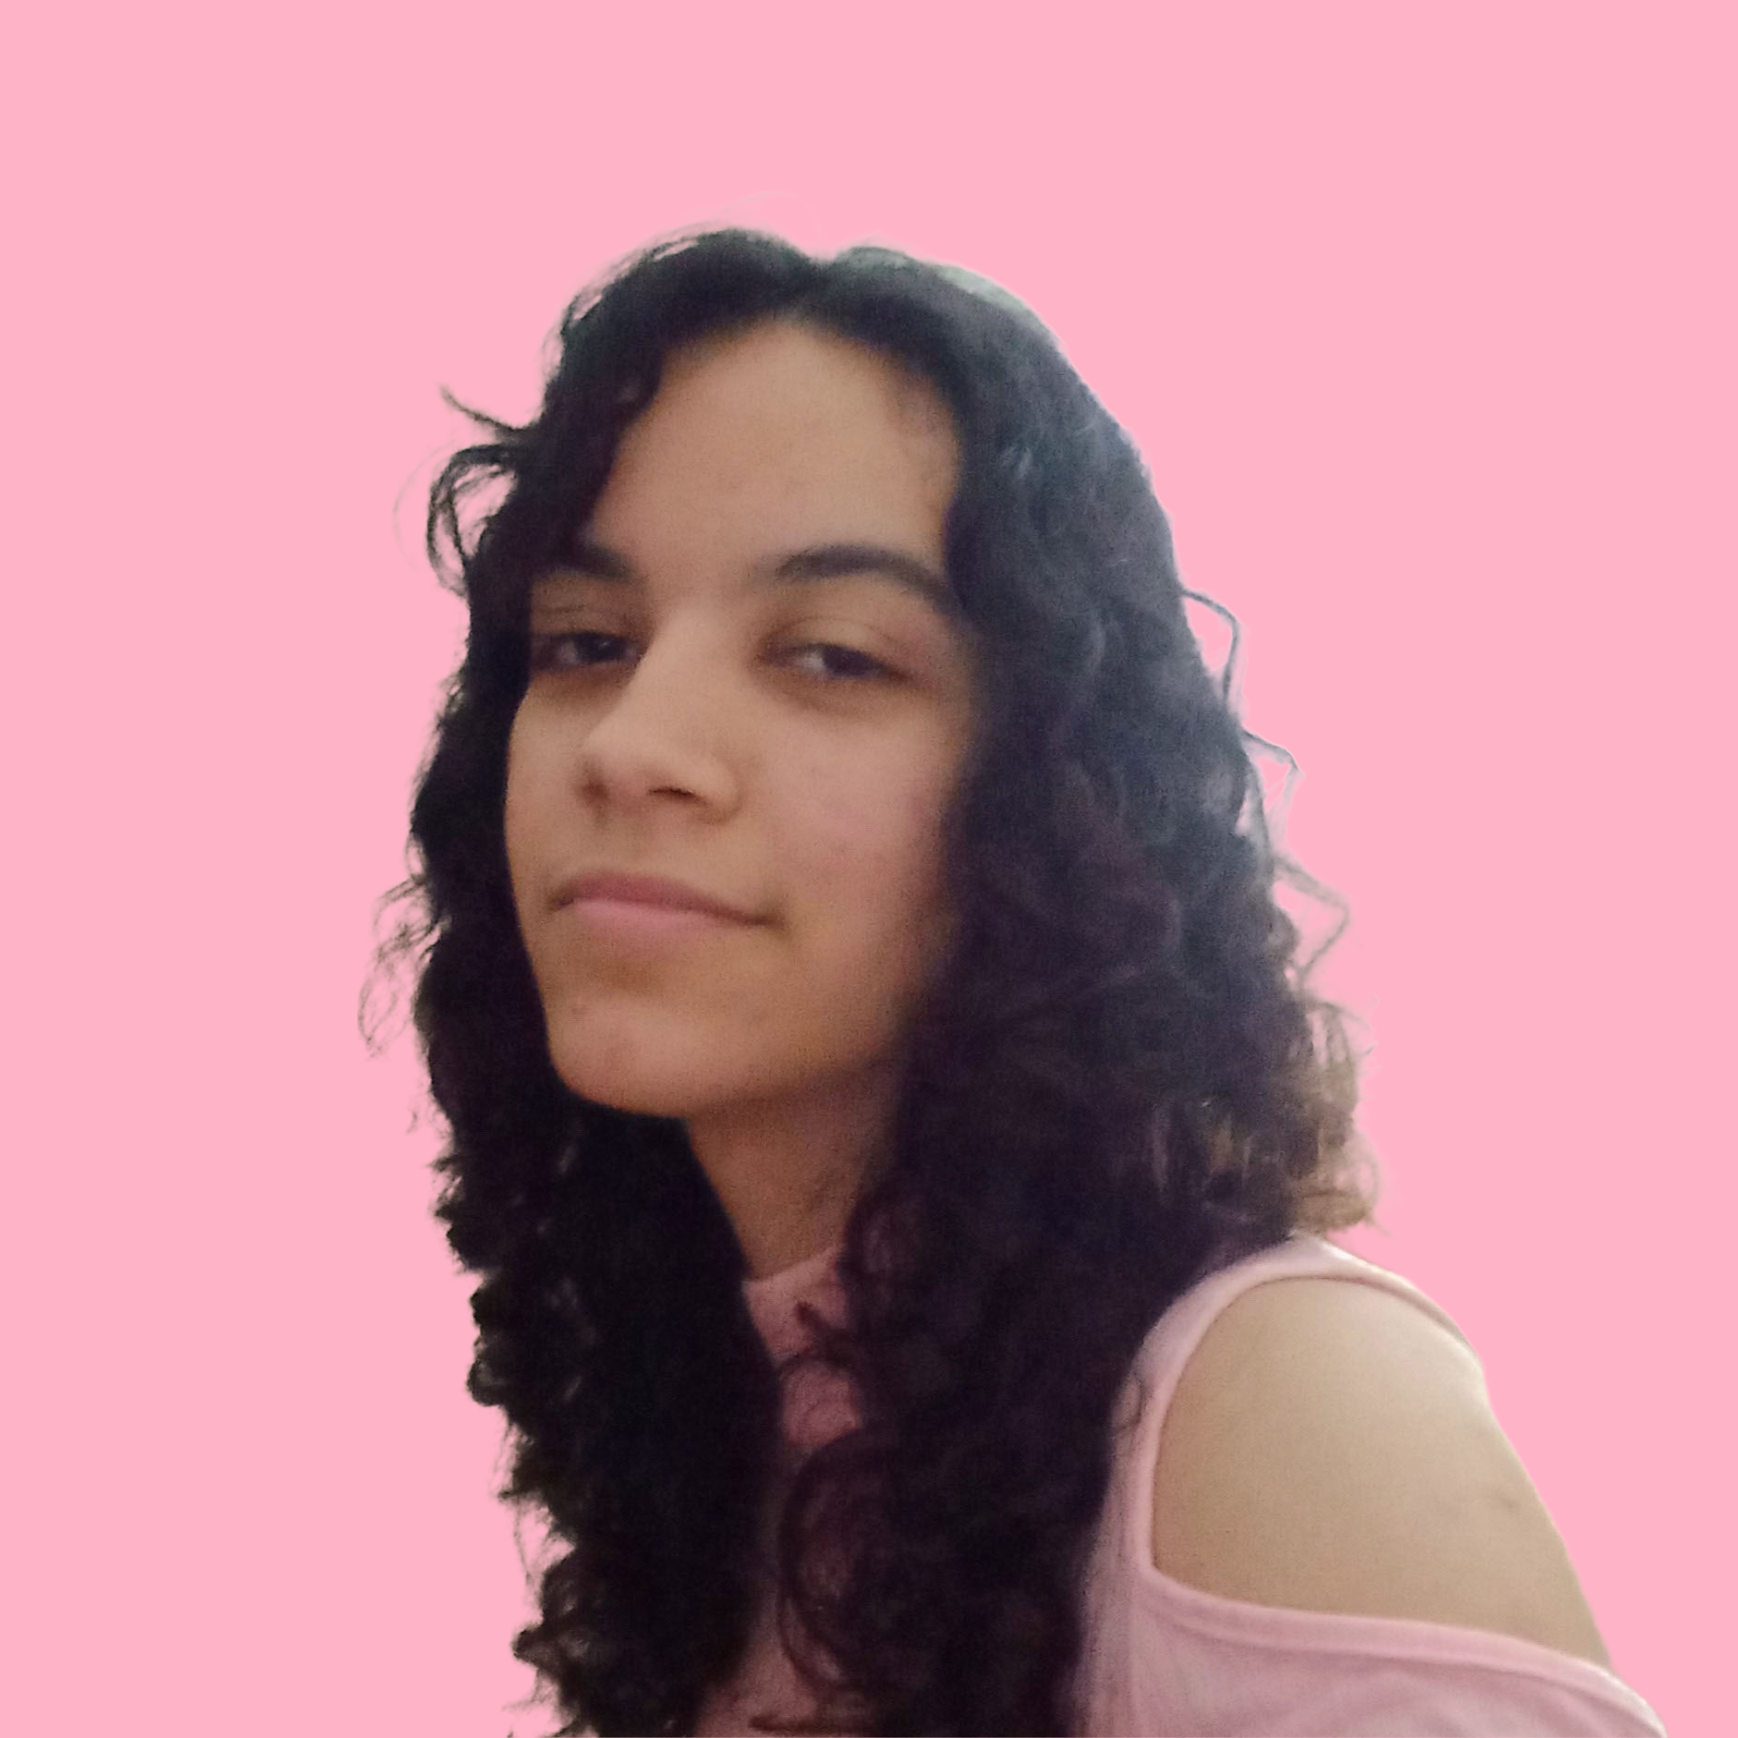
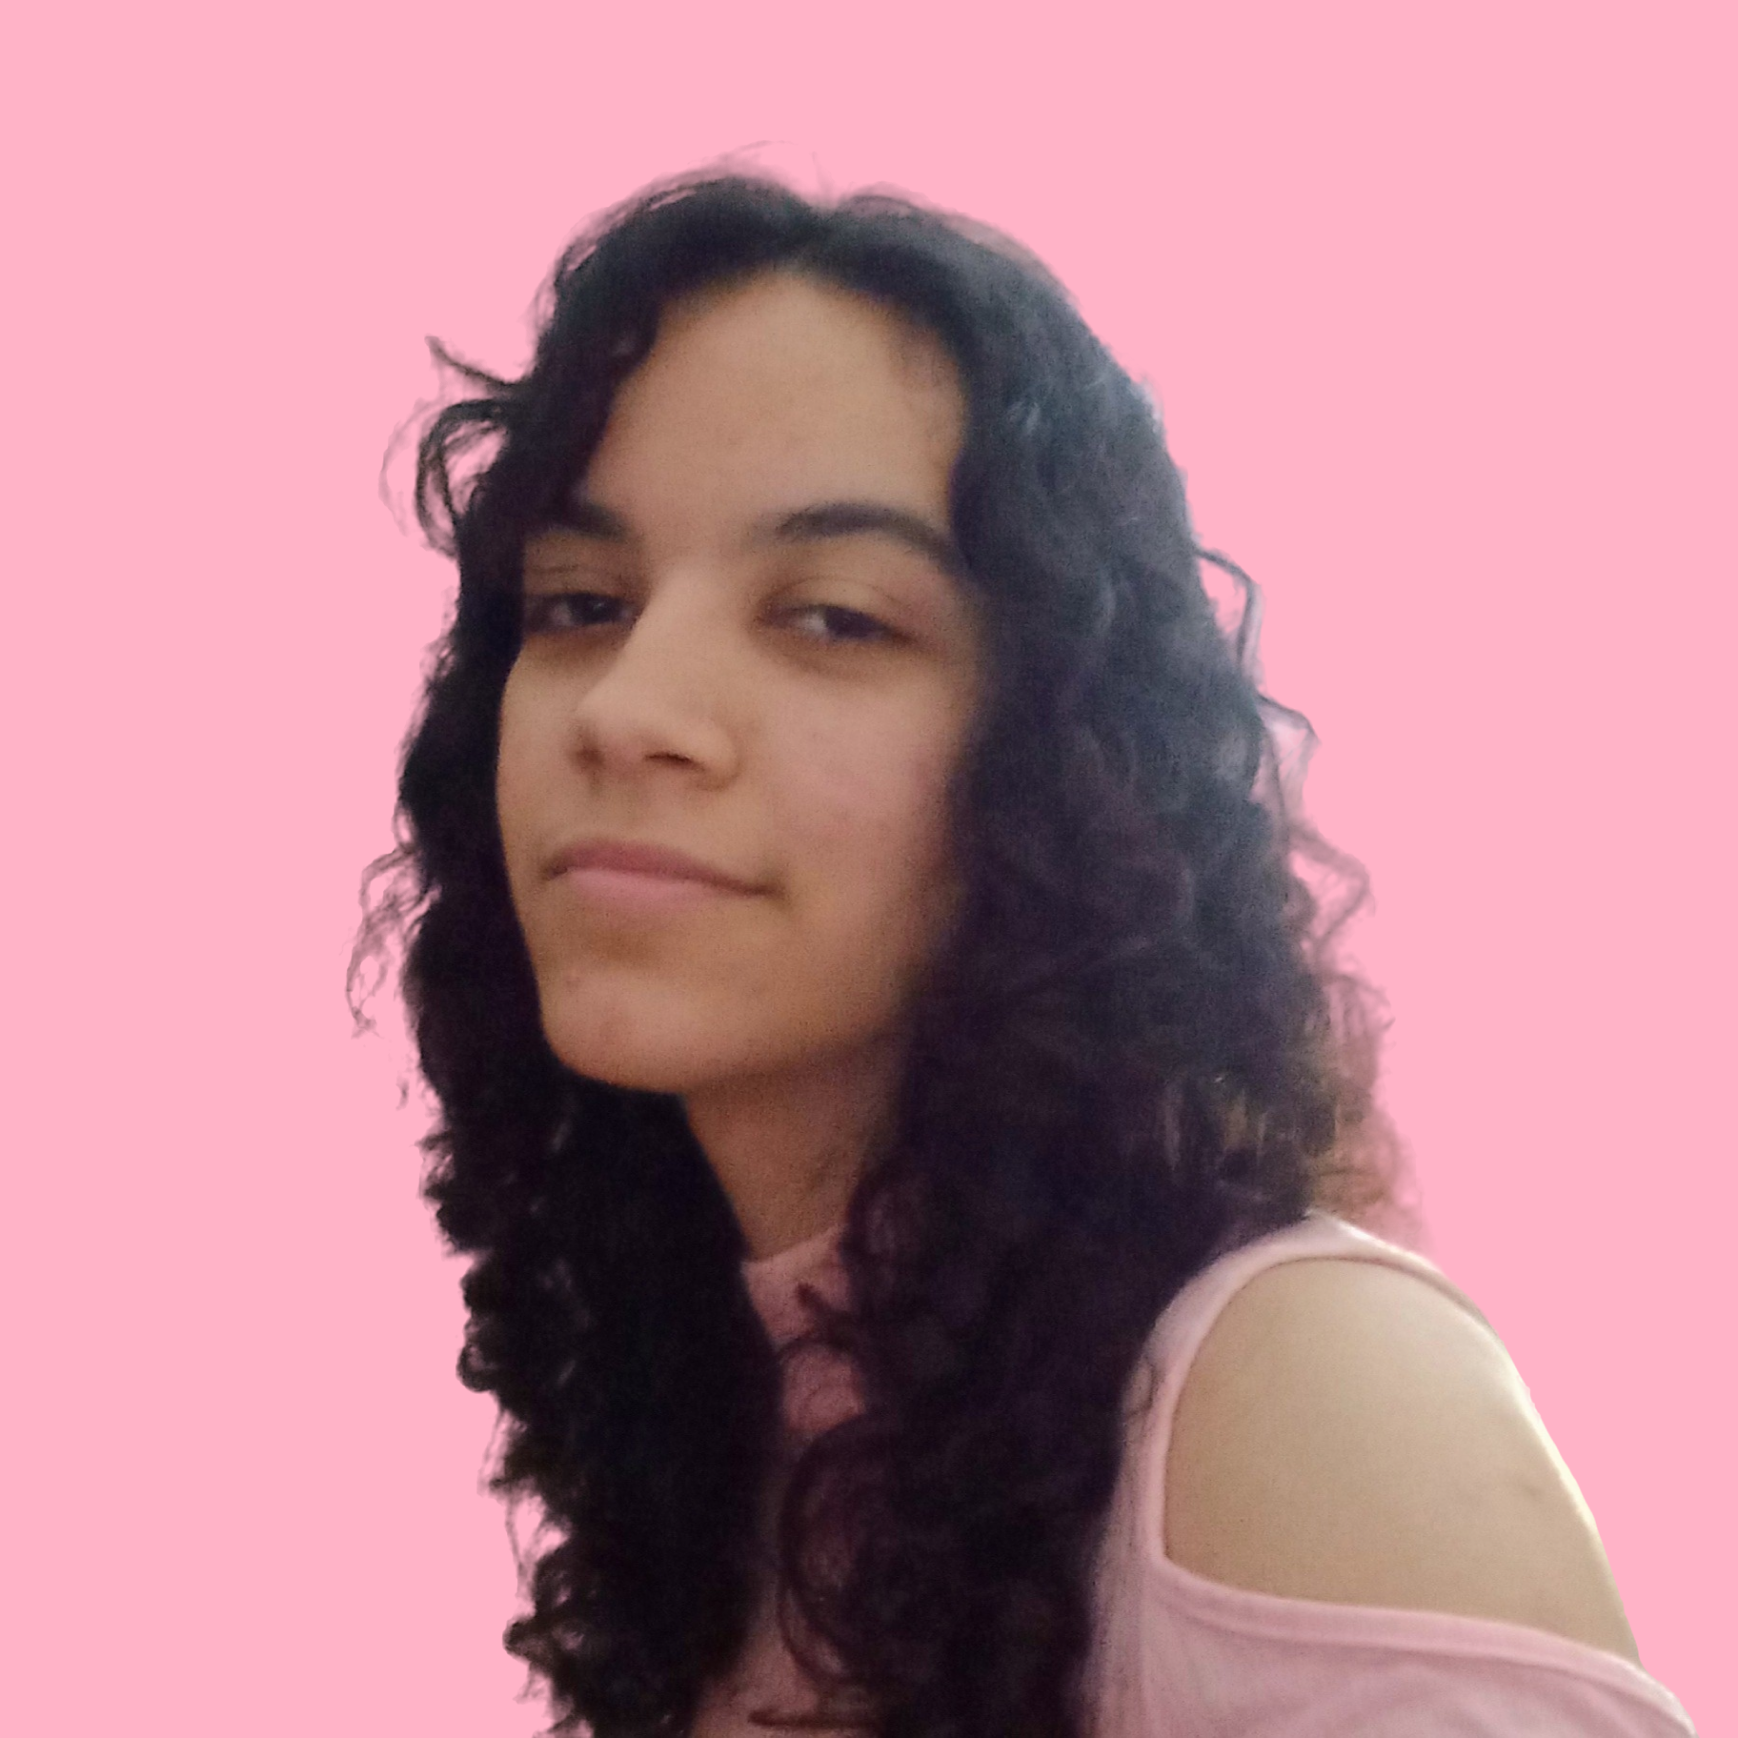
general css updated

Changed region(s): [[0.1864, 0.0932, 0.9942, 1.0]]

diff --git a/src/sections/AboutMe.js b/src/sections/AboutMe.js
@@ -7,15 +7,15 @@ export default function AboutMe({ t }) {
   return (
     <section id="about" className={`${styles.container} grid gap-6 md:gap-12`}>
       <h2>{t("aboutSection.title")}</h2>
-      <div className="grid md:grid-cols-12 gap-y-6 gap-x-4 place-items-center">
+      <div className="grid md:grid-cols-12 gap-y-6 gap-x-4 md:gap-x-6 place-items-center">
         <div className="md:col-span-5">
           <Image
-            className="w-full max-w-[464px] rounded-full"
+            className="w-full sm:max-lg:max-w-[464px] rounded-2xl"
             src={photo}
             alt="Photograph of Sol Maldonado"
           />
         </div>
-        <div className="md:col-span-6 md:col-start-7 grid gap-6 md:place-items-start">
+        <div className="md:col-span-7 grid gap-6 md:place-items-start">
           <p>{t("aboutSection.text")}</p>
           <LargeButton handleClick={() => window.open("/assets/resume.pdf")}>
             {t("aboutSection.button")}

diff --git a/src/components/ProjectCard.js b/src/components/ProjectCard.js
@@ -3,18 +3,18 @@ import SmallButton from "./SmallButton";
 
 function ProjectCard({ title, image, description, technologies, links }) {
   return (
-    <article className="grid gap-4 lg:grid-cols-12 place-items-center">
-      <div className="lg:col-span-5 lg:col-start-8 lg:order-last">
+    <article className="grid gap-4 lg:gap-6 lg:grid-cols-12 place-items-center">
+      <div className="lg:col-span-5">
         <Image
           src={image}
           alt={title}
           width={0}
           height={0}
           sizes="100vw"
-          className="w-full h-auto max-w-[464px] rounded-2xl"
+          className="w-full h-auto sm:max-lg:max-w-[464px] rounded-2xl"
         />
       </div>
-      <div className="lg:col-span-6 lg:order-first w-full space-y-4">
+      <div className="lg:col-span-7 w-full space-y-4">
         <h3>{title}</h3>
         <p>{description}</p>
         <ul className="flex flex-wrap gap-1">

diff --git a/src/components/NavBar.js b/src/components/NavBar.js
@@ -80,7 +80,7 @@ export default function NavBar({ t }) {
                       leaveFrom="transform opacity-100 scale-100"
                       leaveTo="transform opacity-0 scale-95"
                     >
-                      <Menu.Items className="gradient flex flex-col gap-2 p-2 absolute left-0 mt-2 rounded-lg min-w-[10rem] shadow-md shadow-neutral-700/20">
+                      <Menu.Items className="gradient flex flex-col p-2 absolute left-0 mt-2 rounded-lg min-w-[10rem] shadow-md shadow-neutral-700/20">
                         {locales.map((l) => (
                           <Menu.Item key={l}>
                             <Link

diff --git a/src/styles/globals.css b/src/styles/globals.css
@@ -20,15 +20,15 @@ h6 {
 }
 
 h1 {
-  @apply text-[2.5rem] lg:text-[3.5rem]
+  @apply text-[2.5rem] lg:text-[3.5rem] leading-none;
 }
 
 h2 {
-  @apply text-[2rem] md:text-[2.5rem]
+  @apply text-[2rem] md:text-[2.5rem] leading-none;
 }
 
 h3 {
-  @apply text-[1.5rem] md:text-[2rem]
+  @apply text-[1.5rem] md:text-[2rem] leading-none;
 }
 
 .gradient {
@@ -36,7 +36,7 @@ h3 {
 }
 
 .form-field {
-  @apply grid gap-2 w-full;
+  @apply grid gap-1 w-full;
 }
 
 .form-input {

diff --git a/src/sections/Contact.js b/src/sections/Contact.js
@@ -8,7 +8,7 @@ export default function Contact({ t }) {
   return (
     <section id="contact" className={`${styles.container} ${styles.verticalFlow}`}>
       <h2>{t("contactSection.title")}</h2>
-      <div className="grid gap-y-8 gap-x-4 lg:grid-cols-12">
+      <div className="grid gap-y-8 gap-x-6 lg:grid-cols-12">
         <div className="lg:col-span-5 space-y-4 lg:space-y-6">
           <p>{t("contactSection.text")}</p>
           {socials.map((social) => (

diff --git a/src/styles/index.js b/src/styles/index.js
@@ -1,5 +1,5 @@
 export const styles = {
-  container: "w-full max-w-[1440px] mx-auto px-4 py-8 md:px-6 lg:px-[4.5rem] md:py-[5.5rem]",
-  innerWidth: "w-full max-w-[1440px] mx-auto px-4 md:px-6 lg:px-[4.5rem]",
+  container: "w-full max-w-[1440px] mx-auto px-4 py-8 md:px-6 lg:px-24 md:py-[5.5rem]",
+  innerWidth: "w-full max-w-[1440px] mx-auto px-4 md:px-6 lg:px-24",
   verticalFlow: "flex flex-col gap-6 md:gap-12",
 };

diff --git a/src/pages/index.js b/src/pages/index.js
@@ -12,12 +12,14 @@ import Footer from "@/components/Footer";
 const nunito = Nunito({
   subsets: ["latin"],
   variable: "--font-nunito",
+  display: "swap",
   weight: "800",
 });
 
 const nunitoSans = Nunito_Sans({
   subsets: ["latin"],
   variable: "--font-nunitoSans",
+  display: "swap",
   weight: "400",
 });
 
